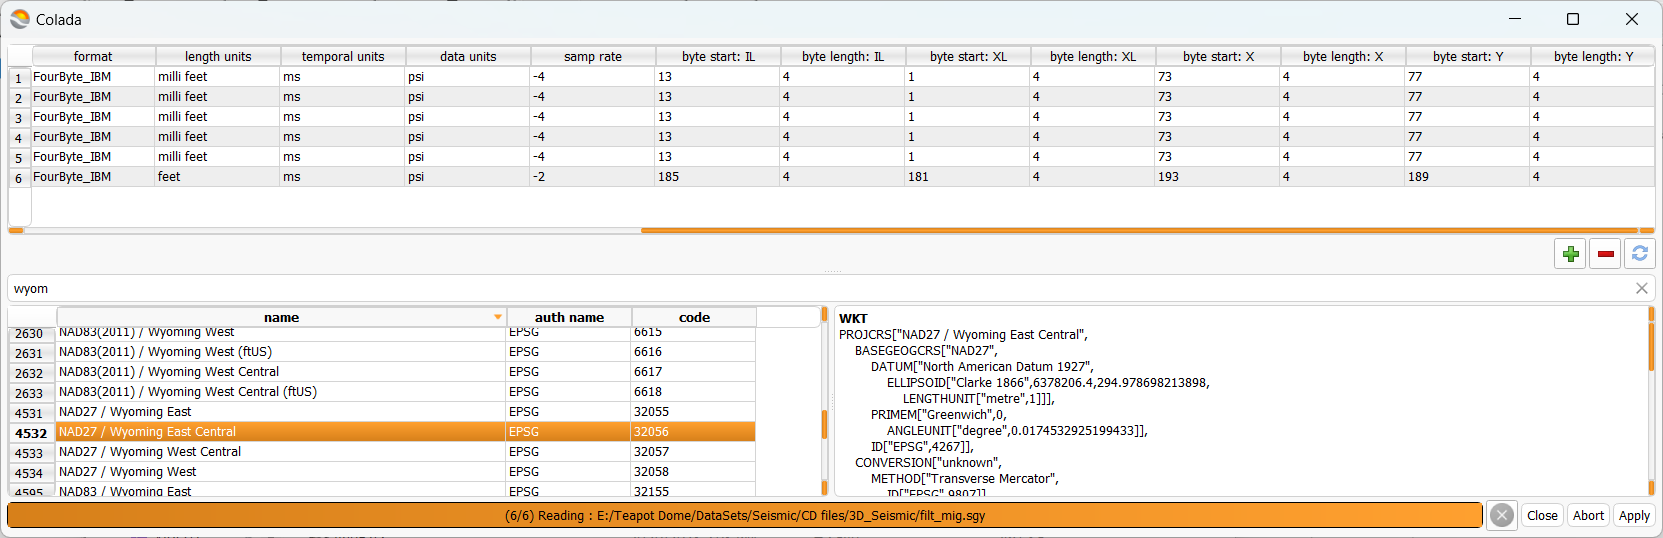
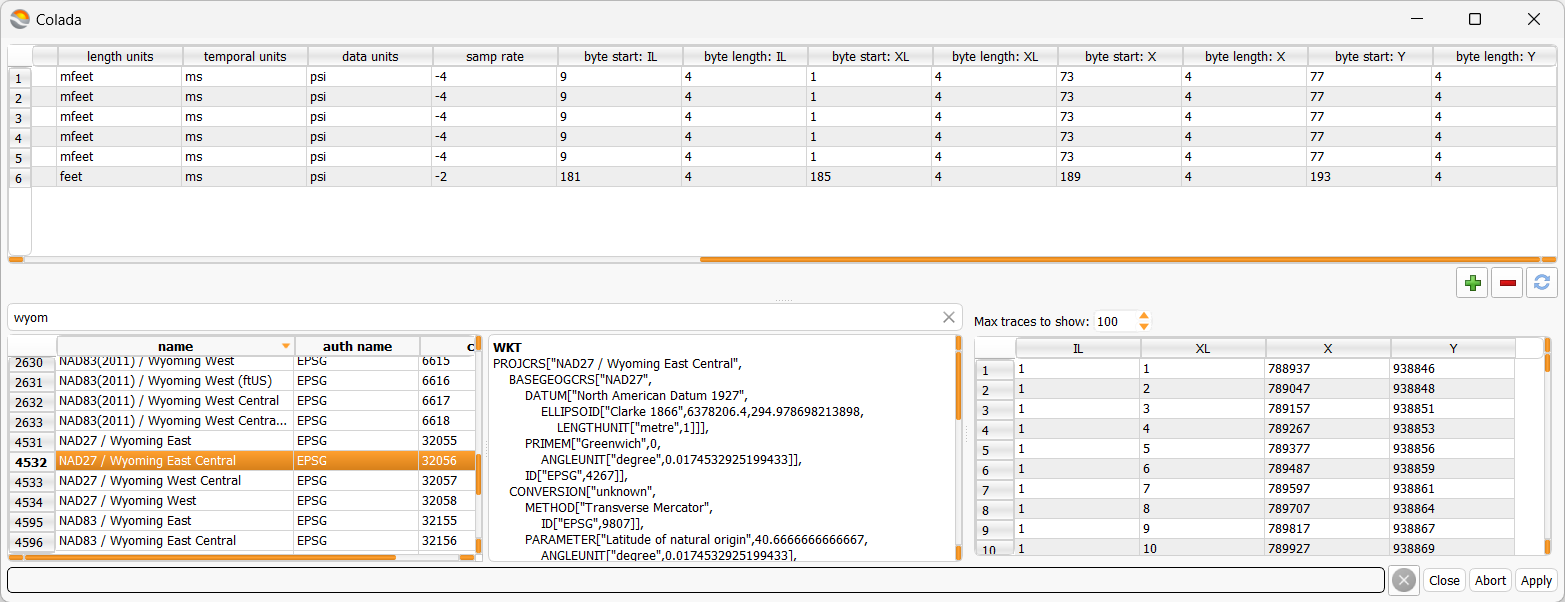
Improved Geo Volume tutorial

diff --git a/source/user_guide/tutorials/io_and_visualization/io_and_visualization.md b/source/user_guide/tutorials/io_and_visualization/io_and_visualization.md
@@ -13,7 +13,7 @@ In the lower left corner there is a spatial reference and units:
 :align: center
 ```
 
-## Adjust application settings
+## Application settings
 
 In Colada application settings (`Toolbar menu->Edit->Application Settings`) `General` panel set default directories for the data.
 
@@ -54,4 +54,100 @@ We will read it as Geo Volume first and then as Seismic.
 ### Read SEGY as Geo Volume
 
 To open Geo Volume SEGY reader right-click on Geo Volume tree `Import->SEGY STACK`. 
-Add files 
+Add SEGY files from `DataSets/Seismic/CD files/2D_Seismic/NormalizedMigrated_segy/` and `DataSets/Seismic/CD files/3D_Seismic/` directories.
+Before reading SEGY don't forget to check trace headers.
+For *Teapot Dome* the correct header offsets for INLINE, XLINE and X, Y are shown in the picture.
+
+```{image} geo_volume_reader.png
+:alt: Colada geo volume reader
+:class: bg-primary
+:scale: 70%
+:align: center
+```
+
+:::{warning}
+
+Geo Volume is a regular grid that can be represented by origin, orientation and spacings along each axis.
+
+SEGY stack data may not strictly follow this.
+In this case XY plane will be broken and in practice the user must be confident that the SEGY is represented as a cube or flat with regular spacings.
+
+:::
+
+There are few things that should be explained. 
+
+First of all each geo-object has attribute `Domain`. 
+Possible values are: `TWT` (Two Way Traveltime), `OWT` (One Way Traveltime), `TVD` (True Vertical Depth), `TVDSS` (True Vertical Depth Sub-Sea).
+
+CRS (Coordinate Seference System or Spatial Reference System) highly desirable for every geo-object.
+
+`Length units`, `Temporal units` necessary for all geo-objects. Uusually they are needed to define coordinates.
+
+`Data units` necessary for some geo-objects like Map if it is in `TWT/OWT` domain. 
+Or for Geo Volume if it is going to be used in wave-modeling as velocity model for example.
+`Data units` defines units of the data, for example for a Map object it defines units of surface values. 
+Or for Geo Volume it defines units of each scalar value of data (pressure for example or particle displacement).
+
+*To be confident that your units are convertable one may use the* [web service](http://13.52.135.81/convert).
+
+## Data visualization
+
+After data is read it should appear in the Geo Volume tree.
+As Geo Volume may be pretty big and not all the time the user wants to load oll data to the memory, after clicking on the checkbox the module will be switched to `GeoVolumes` where one can select a subset of the data to load.
+
+```{image} geo_volume_tree_with_data.png
+:alt: Colada geo volume tree with data
+:class: bg-primary
+:scale: 70%
+:align: center
+```
+
+When the data is loaded new item will appear in *Subject Hierarchy* window.
+To visualize Geo Volume one may click on *eye* picture like shown in the picture.
+
+```{image} geo_volume_subj_hierarchy.png
+:alt: Colada geo volume subject hierarchy
+:class: bg-primary
+:scale: 70%
+:align: center
+```
+
+Geo Volume should be visualized.
+
+By default *Slice Views* are synchronized.
+One can disable taht by clicking on the *chain* button.
+
+To see axes in Slice View one should change the preset to one of the following: `XY`, `YZ`, `XZ`.
+
+```{image} geo_volume_displayed.png
+:alt: Colada geo volume displayed
+:class: bg-primary
+:scale: 70%
+:align: center
+```
+
+Further one can visualize two volumes one upon another.
+To do that there is a place for *background* and *foreground* volumes.
+Place 2D as background and 3D cuba as foreground.
+Then using slicer change the opacty to see how these two objects relates.
+
+```{image} slice_toolbar.png
+:alt: Colada slice toolbar
+:class: bg-primary
+:scale: 70%
+:align: center
+```
+
+Another way to visualize the data is to drag&drop the selected object to the scene.
+In this case an object will be rendered as Volume.
+
+```{image} volume_rendered.png
+:alt: Colada volume rendered
+:class: bg-primary
+:scale: 70%
+:align: center
+```
+
+Rendered Volume is controlled in `Volume Rendering` module.
+`Volume` module is for usual representation using Slices.
+Check these modules to see how you can customize the visualization.
